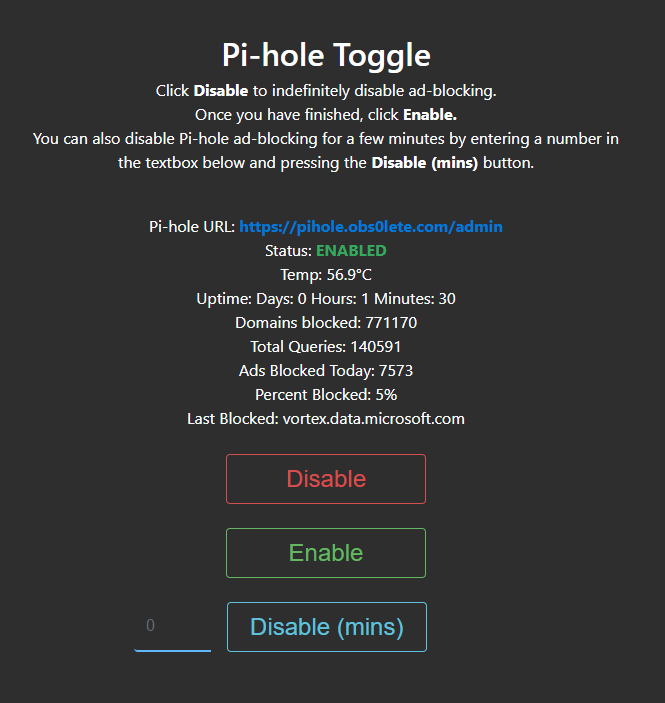
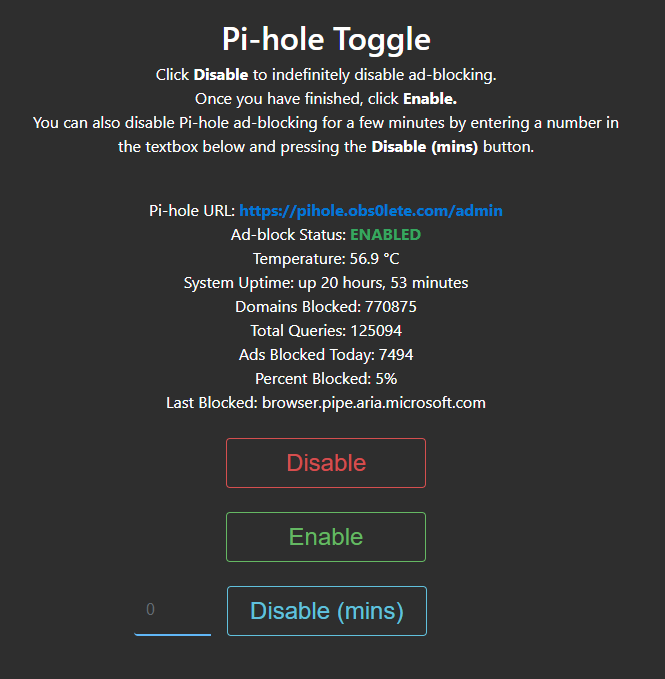
- Modified uptime to be fetched for the system

diff --git a/includes.php b/includes.php
@@ -38,12 +38,15 @@
     //  sudo usermod -aG video www-data
     // Then reboot the Raspberry Pi.
     // Source: https://stackoverflow.com/questions/30151661/running-vcgencmd-from-php-exec
-    $getTemp = exec("vcgencmd measure_temp | egrep -o '[0-9]*\.[0-9]*'");
+    $getTemp = shell_exec("vcgencmd measure_temp | egrep -o '[0-9]*\.[0-9]*'");
     
+    // Get system uptime
+    $upTime = shell_exec("uptime -p");
+
     // Get the results (JSON)
     $JSONResult = file_get_contents($apiUrl);
      
-    //Decode the JSON results
+    // Decode the JSON results
     $JSON = json_decode($JSONResult, true);
     
     // Get the status results
@@ -57,11 +60,6 @@
     $dnsQueries = $JSON['dns_queries_today'];
     $adsBlocked = $JSON['ads_blocked_today'];
     $percentAdsBlocked = $JSON['ads_percentage_today'];
-    // Get the uptime values
-    $upTimeDays = $JSON['gravity_last_updated']['relative']['days'];
-    $upTimeHours = $JSON['gravity_last_updated']['relative']['hours'];
-    $upTimeMinutes = $JSON['gravity_last_updated']['relative']['minutes'];
-    // Combine these into the upTime variable
-    $upTime = " Days: " . $upTimeDays . " Hours: " . $upTimeHours . " Minutes: " . $upTimeMinutes;
     $temp = $getTemp . "&deg;C"
+
 ?>

diff --git a/index.php b/index.php
@@ -134,10 +134,10 @@
 
     // Print the results
     printf("
-    Status: %s <br />
-    Temp: %s </br />
-    Uptime: %s <br />
-    Domains blocked: %s <br />
+    Ad-block Status: %s <br />
+    Temperature: %s </br />
+    System Uptime: %s <br />
+    Domains Blocked: %s <br />
     Total Queries: %s <br />
     Ads Blocked Today: %s <br />
     Percent Blocked: %u%% <br />
